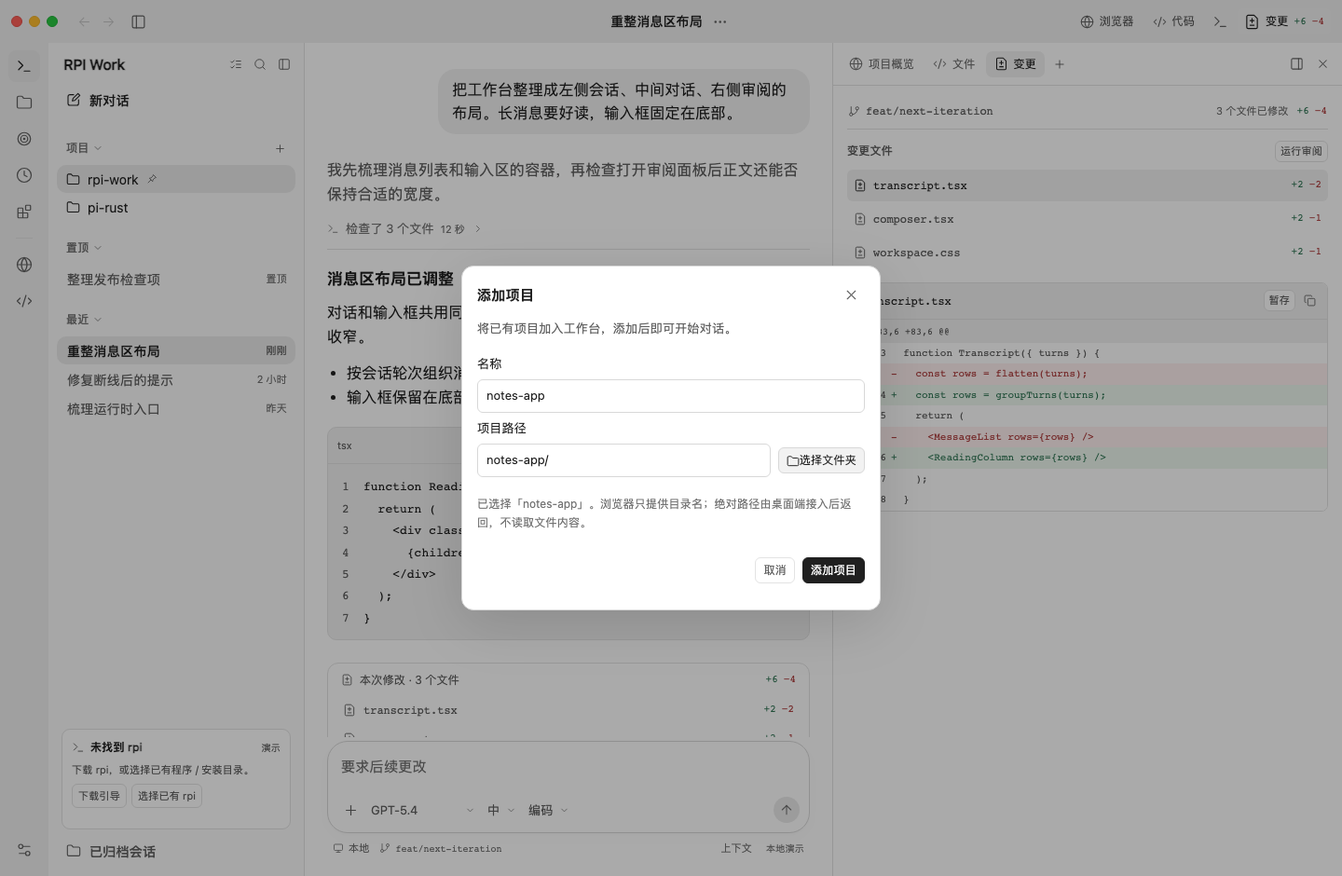
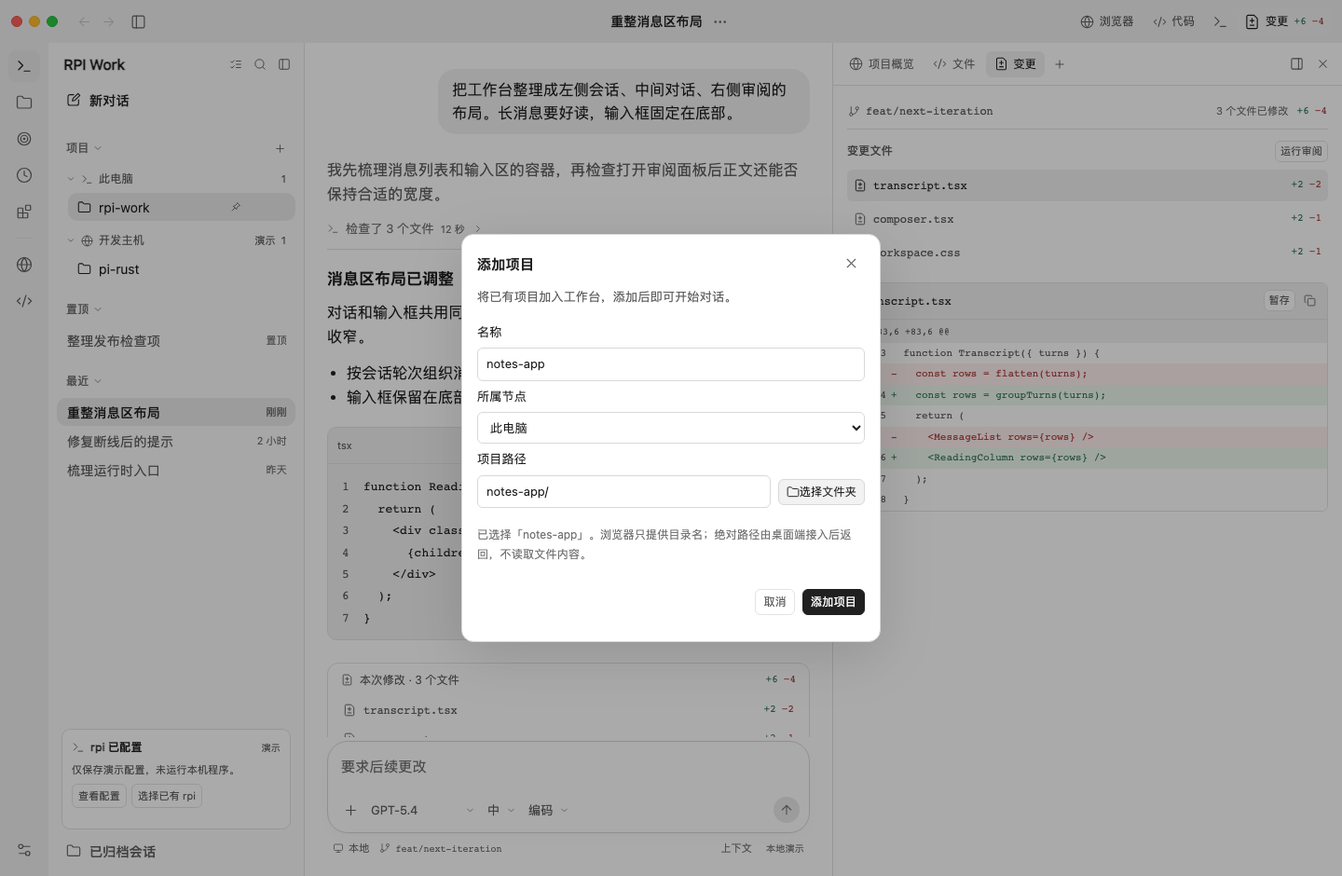
feat(reui): group projects by node with a flat display setting

diff --git a/design/reui-message-layout/workbench.js b/design/reui-message-layout/workbench.js
@@ -1,8 +1,16 @@
 // This prototype owns browser-local state. Commands and integrations use fixtures.
+const projectNodes = [
+  { id: 'local', name: '此电脑', detail: '本地工作区', icon: 'terminal' },
+  { id: 'devbox', name: '开发主机', detail: 'SSH · devbox.local', icon: 'globe', demo: true },
+];
+function projectNode(project) {
+  const id = project?.nodeId || 'local';
+  return projectNodes.find(node => node.id === id) ?? { id, name: '未知节点', icon: 'globe', demo: true };
+}
 const workbench = {
   projects: [], fontSize: '16', permissions: 'workspace', askCommands: false, reviewDelivery: 'inline',
   density: 'comfortable', messageLayout: 'reading', codeNumbers: true, notifyFinish: false, defaultModel: 'GPT-5.4', defaultEffort: '中',
-  followUpMode: 'queue', showContext: true, showBottomControl: true,
+  followUpMode: 'queue', showContext: true, showBottomControl: true, projectGrouping: 'node',
   environments: {}, resources: {}, connections: {}, sourceDrafts: {}, automations: [],
 };
 try {
@@ -10,6 +18,7 @@ try {
   if (saved && typeof saved === 'object') {
     workbench.projects = Array.isArray(saved.projects)
       ? saved.projects.filter(item => item && typeof item.name === 'string' && typeof item.path === 'string' && item.branch === 'main')
+        .map(item => ({ ...item, nodeId: typeof item.nodeId === 'string' && item.nodeId.trim() ? item.nodeId.trim() : 'local' }))
       : [];
     workbench.automations = Array.isArray(saved.automations)
       ? saved.automations.filter(item => item && typeof item.id === 'string' && typeof item.name === 'string'
@@ -24,6 +33,7 @@ try {
     if (['inline', 'detached'].includes(saved.reviewDelivery)) workbench.reviewDelivery = saved.reviewDelivery;
     if (['compact', 'comfortable'].includes(saved.density)) workbench.density = saved.density;
     if (['reading', 'classic'].includes(saved.messageLayout)) workbench.messageLayout = saved.messageLayout;
+    if (['node', 'flat'].includes(saved.projectGrouping)) workbench.projectGrouping = saved.projectGrouping;
     if (typeof saved.codeNumbers === 'boolean') workbench.codeNumbers = saved.codeNumbers;
     workbench.notifyFinish = Boolean(saved.notifyFinish);
     if (typeof saved.showBottomControl === 'boolean') workbench.showBottomControl = saved.showBottomControl;
@@ -401,6 +411,12 @@ function initializeWorkbench() {
     saveWorkbench();
     if (currentPage === 'resources') renderResourceList();
   });
+  $('#project-grouping').addEventListener('change', event => {
+    if (!['node', 'flat'].includes(event.target.value)) return;
+    workbench.projectGrouping = event.target.value;
+    saveWorkbench();
+    renderNavigation();
+  });
   $('#follow-up-default').addEventListener('change', event => {
     workbench.followUpMode = event.target.value;
     if (!session) {
@@ -428,6 +444,7 @@ function initializeWorkbench() {
     $('#show-bottom-control').checked = workbench.showBottomControl;
     document.documentElement.dataset.bottomControl = String(workbench.showBottomControl);
     $('#general-review-delivery').value = workbench.reviewDelivery;
+    $('#project-grouping').value = workbench.projectGrouping;
     $('#follow-up-default').value = workbench.followUpMode;
     $('#show-context-control').checked = workbench.showContext;
     $('.context-button').hidden = !workbench.showContext;
@@ -454,13 +471,10 @@ function initializeWorkbench() {
   }
 
   function renderConnections() {
-    const rows = [
-      { id: 'local', title: '此电脑', detail: '本地工作区', icon: 'terminal' },
-      { id: 'devbox', title: '开发主机', detail: 'SSH · devbox.local', icon: 'globe' },
-    ].map(item => {
+    const rows = projectNodes.map(item => {
       const row = element('div', 'connection-row');
       const words = element('div');
-      words.append(element('strong', '', item.title), element('small', '', item.detail));
+      words.append(element('strong', '', item.name), element('small', '', item.detail));
       const connected = workbench.connections[item.id] ?? item.id === 'local';
       const button = controls(connected ? '模拟断开' : '模拟连接', 'connection-toggle', item.id);
       row.innerHTML = icon(item.icon);
@@ -815,7 +829,7 @@ function initializeWorkbench() {
   }
 
   function clearProjectError() {
-    for (const input of [$('#project-name'), $('#project-path')]) {
+    for (const input of [$('#project-name'), $('#project-path'), $('#project-node')]) {
       input.setCustomValidity('');
       input.removeAttribute('aria-invalid');
     }
@@ -832,10 +846,19 @@ function initializeWorkbench() {
   }
 
   const projectPathHelp = $('#project-path-help').textContent;
+  $('#project-node').replaceChildren(...projectNodes.map(node => new Option(node.name + (node.demo ? '（演示）' : ''), node.id)));
   let pickedProjectName = '';
   let projectPickerTicket = 0;
+  function projectNodeChanged() {
+    ++projectPickerTicket;
+    clearProjectError();
+    const local = $('#project-node').value === 'local';
+    $('#choose-project-folder').disabled = !local;
+    $('#project-path-help').textContent = local ? projectPathHelp : '请填写所选节点上的项目路径，并确认已有填写属于该节点。远程节点为演示，不访问远程文件系统，也不使用本机文件夹选择器。';
+  }
+  $('#project-node').addEventListener('change', projectNodeChanged);
   function selectProjectDirectory(name) {
-    if (!$('#project-dialog').open || !name) return;
+    if (!$('#project-dialog').open || $('#project-node').value !== 'local' || !name) return;
     clearProjectError();
     if (!$('#project-name').value.trim() || $('#project-name').value === pickedProjectName) $('#project-name').value = name;
     pickedProjectName = name;
@@ -843,6 +866,7 @@ function initializeWorkbench() {
     $('#project-path-help').textContent = `已选择「${name}」。浏览器只提供目录名；绝对路径由桌面端接入后返回，不读取文件内容。`;
   }
   $('#choose-project-folder').addEventListener('click', async () => {
+    if ($('#project-node').value !== 'local') return;
     const ticket = ++projectPickerTicket;
     if (typeof window.showDirectoryPicker !== 'function') {
       $('#project-folder-picker').dataset.ticket = String(ticket);
@@ -869,6 +893,7 @@ function initializeWorkbench() {
   });
   $('#project-form').addEventListener('reset', () => {
     pickedProjectName = '';
+    $('#choose-project-folder').disabled = false;
     $('#project-path-help').textContent = projectPathHelp;
   });
   $('#project-dialog').addEventListener('close', () => {
@@ -880,20 +905,22 @@ function initializeWorkbench() {
     event.preventDefault();
     const name = $('#project-name').value.trim();
     const path = $('#project-path').value.trim();
+    const nodeId = $('#project-node').value;
     clearProjectError();
+    if (!projectNodes.some(node => node.id === nodeId)) return showProjectError($('#project-node'), '请选择所属节点');
     if (!name) return showProjectError($('#project-name'), '请输入项目名称');
     if (!path) return showProjectError($('#project-path'), '请输入项目路径');
     if (projects.some(project => project.name === name)) {
       showProjectError($('#project-name'), '项目名称已存在');
       return;
     }
-    const project = { name, path, branch: 'main' };
+    const project = { name, path, branch: 'main', nodeId };
     projects.push(project);
     workbench.projects.push(project);
     saveWorkbench();
     $('#project-dialog').close();
     welcomeProject = name;
-    collapsedSections.delete('projects');
+    expandProjectNode(name);
     saveNavigation();
     showSession(null);
     $(`[data-project-group="${CSS.escape(name)}"]`)?.scrollIntoView({ block: 'nearest' });

diff --git a/design/reui-message-layout/prototype.js b/design/reui-message-layout/prototype.js
@@ -16,8 +16,8 @@ const mobile = matchMedia('(max-width: 700px)');
 const narrow = matchMedia('(max-width: 900px)');
 const compact = matchMedia('(max-width: 1199px)');
 const projects = [
-  { name: 'rpi-work', branch: 'feat/next-iteration' },
-  { name: 'pi-rust', branch: 'main' },
+  { name: 'rpi-work', branch: 'feat/next-iteration', nodeId: 'local' },
+  { name: 'pi-rust', branch: 'main', nodeId: 'devbox' },
   ...workbench.projects,
 ];
 
@@ -103,6 +103,7 @@ const sessions = [
 
 const viewState = new Map();
 const collapsedSections = new Set();
+const collapsedProjectNodes = new Set();
 const pinnedProjects = new Set();
 const navigationKey = 'rpi-work-layout-navigation-v1';
 try {
@@ -115,6 +116,9 @@ try {
       if (['projects', 'recent-threads', 'pinned-threads'].includes(section)) collapsedSections.add(section);
     }
   }
+  for (const id of Array.isArray(saved?.collapsedNodes) ? saved.collapsedNodes : []) {
+    if (projects.some(project => projectNode(project).id === id)) collapsedProjectNodes.add(id);
+  }
   if (saved?.version !== 2) saveNavigation();
 } catch {
   pinnedProjects.add('rpi-work');
@@ -122,7 +126,7 @@ try {
 
 function saveNavigation() {
   try {
-    localStorage.setItem(navigationKey, JSON.stringify({version: 2, pins: [...pinnedProjects], collapsed: [...collapsedSections]}));
+    localStorage.setItem(navigationKey, JSON.stringify({version: 2, pins: [...pinnedProjects], collapsed: [...collapsedSections], collapsedNodes: [...collapsedProjectNodes]}));
   } catch {}
 }
 
@@ -263,10 +267,18 @@ function projectRow(project) {
   const entry = actionButton('', 'project-chat', 'project-entry');
   entry.dataset.project = project.name;
   entry.setAttribute('aria-label', '打开项目 ' + project.name);
-  entry.title = project.path ?? project.name;
+  const node = projectNode(project);
+  group.dataset.nodeId = node.id;
+  entry.title = node.name + (node.demo ? '（演示）' : '') + ' · ' + (project.path ?? project.name);
+  entry.setAttribute('aria-description', '所属节点：' + node.name + (node.demo ? '（演示）' : ''));
   if (project.name === (session?.project ?? welcomeProject)) entry.setAttribute('aria-current', 'true');
   entry.innerHTML = `<span class="project-folder">${icon('folder')}</span>`;
   entry.append(element('span', 'project-name', project.name));
+  if (workbench.projectGrouping === 'flat') {
+    const label = element('span', 'project-node-label', node.name + (node.demo ? ' · 演示' : ''));
+    label.title = entry.title;
+    entry.append(label);
+  }
   if (pinnedProjects.has(project.name)) {
     const pin = element('span', 'project-pin');
     pin.innerHTML = icon('pin');
@@ -297,6 +309,42 @@ function syncSection(id) {
   $(`[data-action="toggle-section"][aria-controls="${id}"]`).setAttribute('aria-expanded', String(open));
 }
 
+function expandProjectNode(name) {
+  collapsedSections.delete('projects');
+  collapsedProjectNodes.delete(projectNode(projects.find(project => project.name === name)).id);
+}
+
+function projectNodeRows(sorted) {
+  const nodes = new Map(projectNodes.map(node => [node.id, node]));
+  for (const project of projects) {
+    const node = projectNode(project);
+    nodes.set(node.id, node);
+  }
+  return [...nodes.values()].flatMap(node => {
+    const items = sorted.filter(project => projectNode(project).id === node.id);
+    if (!items.length) return [];
+    const group = element('section', 'project-node-group');
+    group.dataset.projectNode = node.id;
+    group.setAttribute('aria-label', node.name + '的项目');
+    const list = element('div', 'project-node-projects');
+    list.id = 'project-node-' + encodeURIComponent(node.id);
+    list.hidden = collapsedProjectNodes.has(node.id);
+    const toggle = actionButton('', 'toggle-project-node', 'project-node-toggle');
+    toggle.dataset.nodeId = node.id;
+    toggle.setAttribute('aria-controls', list.id);
+    toggle.setAttribute('aria-expanded', String(!list.hidden));
+    toggle.setAttribute('aria-label', node.name + '的项目');
+    toggle.title = node.detail ?? node.id;
+    toggle.innerHTML = icon('chevron-down') + icon(node.icon);
+    toggle.append(element('span', 'project-node-name', node.name));
+    if (node.demo) toggle.append(element('span', 'project-node-demo', '演示'));
+    toggle.append(element('span', 'project-node-count', String(items.length)));
+    list.append(...items.map(projectRow));
+    group.append(toggle, list);
+    return [group];
+  });
+}
+
 function renderNavigation() {
   const menu = $('#project-menu');
   if (menu.matches(':popover-open')) menu.hidePopover();
@@ -307,9 +355,10 @@ function renderNavigation() {
   });
   const pinned = visible.filter(thread => thread.pinned).map(threadButton);
   const recent = visible.filter(thread => !thread.pinned).map(threadButton);
-  const projectRows = [...projects]
-    .sort((left, right) => Number(pinnedProjects.has(right.name)) - Number(pinnedProjects.has(left.name)))
-    .map(projectRow);
+  const sorted = [...projects]
+    .sort((left, right) => Number(pinnedProjects.has(right.name)) - Number(pinnedProjects.has(left.name)));
+  const projectRows = workbench.projectGrouping === 'flat' ? sorted.map(projectRow) : projectNodeRows(sorted);
+  $('#projects').dataset.layout = workbench.projectGrouping;
   $('#pinned-section').hidden = !pinned.length;
   if (!recent.length) {
     recent.push(element('p', 'filter-empty', filter !== 'all' && !visible.length
@@ -1237,10 +1286,20 @@ document.addEventListener('click', event => {
       saveNavigation();
       break;
     }
+    case 'toggle-project-node': {
+      const id = button.dataset.nodeId;
+      const collapsing = !collapsedProjectNodes.has(id);
+      if (collapsing) collapsedProjectNodes.add(id);
+      else collapsedProjectNodes.delete(id);
+      document.getElementById(button.getAttribute('aria-controls')).hidden = collapsing;
+      button.setAttribute('aria-expanded', String(!collapsing));
+      saveNavigation();
+      break;
+    }
     case 'browse-projects': {
       setPanel('navigation', true, false);
       const name = session?.project ?? welcomeProject;
-      collapsedSections.delete('projects');
+      expandProjectNode(name);
       $('#chat-filter').hidden = true;
       $('#filter-chats').setAttribute('aria-expanded', 'false');
       renderNavigation();

diff --git a/design/reui-message-layout/layout.css b/design/reui-message-layout/layout.css
@@ -261,7 +261,7 @@ dialog::backdrop, .scrim { background: #0005; }
 .dialog-form { display: grid; gap: 7px; margin-bottom: 12px; font-size: .8125rem; }
 .dialog-form > .action-button { justify-self: end; }
 .dialog-input-row { display: flex; gap: 6px; }
-.dialog-form input, .dialog-form textarea { width: 100%; min-width: 0; padding: 7px 9px; border: 1px solid var(--strong-line); border-radius: 6px; background: var(--surface); }
+.dialog-form input, .dialog-form textarea, #project-node { width: 100%; min-width: 0; padding: 7px 9px; border: 1px solid var(--strong-line); border-radius: 6px; background: var(--surface); }
 .dialog-form textarea { resize: vertical; }
 #comment-location { overflow-wrap: anywhere; }
 .archive-row { display: flex; gap: 9px; justify-content: space-between; align-items: center; padding-block: 7px; font-size: .8125rem; }
@@ -805,7 +805,17 @@ dialog::backdrop, .scrim { background: #0005; }
 .sidebar-project { position: relative; }
 .project-entry { display: flex; align-items: center; gap: 8px; width: 100%; min-height: 30px; padding: 0 58px 0 10px; border-radius: 10px; color: var(--ink); font-size: 14px; text-align: left; }
 .project-entry:hover, .project-entry[aria-current="true"] { background: var(--hover); }
-.project-name { min-width: 0; white-space: nowrap; overflow: hidden; text-overflow: ellipsis; }
+.project-name { flex: 1; min-width: 0; white-space: nowrap; overflow: hidden; text-overflow: ellipsis; }
+.project-node-label { max-width: 90px; overflow: hidden; text-overflow: ellipsis; white-space: nowrap; color: var(--muted); font-size: 11px; }
+.project-node-group + .project-node-group { margin-top: 6px; }
+.project-node-toggle { display: flex; align-items: center; gap: 6px; width: 100%; min-height: 30px; padding: 3px 10px; border-radius: 7px; color: var(--muted); font-size: 12px; text-align: left; }
+.project-node-toggle:hover { background: var(--hover); }
+.project-node-toggle .icon { flex: none; width: 13px; height: 13px; }
+.project-node-toggle .icon:first-child { width: 10px; height: 10px; }
+.project-node-toggle[aria-expanded="false"] .icon:first-child { transform: rotate(-90deg); }
+.project-node-name { flex: 1; min-width: 0; white-space: nowrap; overflow: hidden; text-overflow: ellipsis; }
+.project-node-demo, .project-node-count { font-size: 11px; }
+.project-node-projects { margin-left: 12px; }
 .project-pin { display: inline-flex; color: var(--muted); }
 .project-pin .icon { width: 12px; height: 12px; }
 .project-tools { position: absolute; top: 3px; right: 3px; display: flex; gap: 1px; opacity: 0; }

diff --git a/design/reui-message-layout/index.html b/design/reui-message-layout/index.html
@@ -280,6 +280,7 @@
           </div>
           <h4>工作区</h4>
           <div class="preference-group">
+            <label class="settings-row"><span><strong>项目列表显示</strong><small>按所属节点分组，或平铺所有项目。只影响项目列表，不改变最近和置顶会话。</small></span><span class="select-control"><select id="project-grouping" aria-label="项目列表显示"><option value="node">按节点分组</option><option value="flat">平铺</option></select><i data-icon="chevron-down"></i></span></label>
             <label class="settings-row"><span><strong>底部面板</strong><small>在窗口标题栏中显示终端按钮。</small></span><input id="show-bottom-control" type="checkbox" role="switch" aria-label="底部面板"></label>
             <label class="settings-row"><span><strong>审查结果呈现方式</strong><small>在当前聊天中审查代码，或启动单独的审查聊天。</small></span><span class="select-control"><select id="general-review-delivery" aria-label="审查结果呈现方式"><option value="inline">当前聊天</option><option value="detached">独立聊天</option></select><i data-icon="chevron-down"></i></span></label>
           </div>
@@ -411,6 +412,7 @@
     <p id="project-dialog-description" class="project-dialog-description">将已有项目加入工作台，添加后即可开始对话。</p>
     <form id="project-form" class="dialog-form">
       <label for="project-name">名称</label><input id="project-name" required maxlength="50" placeholder="my-project" aria-describedby="project-error" autofocus>
+      <label for="project-node">所属节点</label><select id="project-node" required aria-describedby="project-path-help project-error"></select>
       <label for="project-path">项目路径</label><div class="project-path-row"><input id="project-path" required maxlength="300" placeholder="~/Projects/my-project" aria-describedby="project-path-help project-error"><button type="button" class="action-button" id="choose-project-folder"><i data-icon="folder"></i>选择文件夹</button></div>
       <input id="project-folder-picker" type="file" aria-label="导入项目目录" webkitdirectory multiple hidden>
       <p id="project-path-help" class="settings-note">可选择文件夹或手动填写路径。浏览器只记录目录名称，不提供绝对路径、不读取文件内容。</p>

diff --git a/design/reui-message-layout/README.md b/design/reui-message-layout/README.md
@@ -17,8 +17,9 @@
 ## 可以直接试的流程
 
 - **rpi 启动引导**　启动时先显示演示检测状态：[已检测到可用 rpi](screenshots/rpi-startup-ready.png) 则直接进入工作台，不弹窗；未检测到才自动弹出配置选择，让用户选择下载安装或手动指定已有 rpi。弹窗只保留一个「rpi 路径」框，下载和手动定位共用。没有 rpi 时点下载便直接显示[百分比进度](screenshots/rpi-setup-downloading.png)，随后自动演示校验，成功后回填同一路径框并保存，无须先选择安装目录或再次点验证；失败不回填、不保存成功配置。已有 rpi 可选择 `rpi` / `rpi.exe` 程序、已有目录，或手动填写位置。示例回填路径 `~/.local/bin/rpi` 不代表本机已安装；演示配置刷新后保留且不再弹窗。关闭引导会取消进行中的演示任务，保留草稿、选区及原焦点，本次启动不重复弹出；之后仍可通过侧栏重新打开。所有检测、下载和执行都没有真实接入，只有文件/目录选择器是真实浏览器交互；官方发布页需要用户主动打开。[缺失时自动引导](screenshots/rpi-startup-guide.png) · [手动定位](screenshots/rpi-setup-manual.png) · [演示配置完成](screenshots/rpi-setup-ready.png)
-- **添加项目**　独立「项目」分组的标题旁放置「＋」图标，悬停提示「添加项目」。支持「选择文件夹」，名称自动填入，也可自行编辑名称或手动填写路径。优先使用原生目录选择器，不支持时使用浏览器文件夹输入；取消、拒绝或过期结果不覆盖原填写。浏览器只记录目录名，不返回绝对路径，也不读取文件内容；绝对路径与真实目录接入留给桌面端。添加后进入新项目对话，只展开项目分组，不改变最近会话的折叠或筛选状态。空白名称/路径和重名会提示；取消或 Esc 不添加项目、不清空原对话草稿。项目元数据仅保存在浏览器，不创建目录。[入口截图](screenshots/add-project-entry.png) · [添加弹窗](screenshots/add-project-dialog.png) · [添加完成](screenshots/project-added.png)
-- **项目与会话**　「项目」「置顶」「最近」分别折叠、独立保存偏好。项目列表只显示项目；点击项目进入该项目的新对话，项目菜单支持将项目排在项目列表前面，不会移动其会话。「置顶」只显示单独置顶的会话；「最近」直接平铺其他会话，不再按项目嵌套，悬停会话可查看所属项目和完整标题。会话菜单支持置顶、重命名、分叉、交接或归档。顶栏箭头沿本次访问过的会话前进、后退。搜索和执行中/待审批筛选仅影响会话，项目仍可独立访问。旧版最近分组折叠偏好会迁移到新版最近会话，不误折叠项目列表。归档会话可从设置恢复。
+- **添加项目**　独立「项目」分组的标题旁放置「＋」图标，悬停提示「添加项目」。默认添加到「此电脑」，也可选择所属节点。本机支持「选择文件夹」，名称自动填入；远程节点须手动填写其路径，禁用本机选择器，原型不访问远程文件系统。也可自行编辑名称或手动填写路径。本机目录选择优先使用原生目录选择器，不支持时使用浏览器文件夹输入；取消、拒绝或过期结果不覆盖原填写。浏览器只记录目录名，不返回绝对路径，也不读取文件内容；绝对路径与真实目录接入留给桌面端。添加后进入新项目对话，只展开项目分组和目标节点，不改变最近会话的折叠或筛选状态。空白名称/路径和重名会提示；取消或 Esc 不添加项目、不清空原对话草稿。项目元数据仅保存在浏览器，不创建目录。[入口截图](screenshots/add-project-entry.png) · [添加弹窗](screenshots/add-project-dialog.png) · [添加完成](screenshots/project-added.png)
+- **项目显示与节点**　在「设置 → 常规 → 工作区 → 项目列表显示」选择[按节点分组](screenshots/projects-by-node.png)或[平铺](screenshots/projects-flat.png)，默认按节点分组；[设置截图](screenshots/project-node-settings.png)。节点显示项目数量、支持独立折叠，切换模式及刷新后保留偏好。平铺时每个项目旁标注节点；切换只重建项目列表，不改变对话、草稿、选区、阅读位置或右侧预览。旧项目缺少节点信息时归到此电脑，未知节点身份保留为未知，不冒认本机。示例「开发主机」沿用连接页的演示节点；[远程添加示例](screenshots/add-remote-project.png)只保存节点和路径元数据，不代表真实连接。
+- **项目与会话**　「项目」「置顶」「最近」分别折叠、独立保存偏好。项目列表只显示项目；点击项目进入该项目的新对话，项目菜单支持置顶项目：分组时仅在所属节点内排序，平铺时在总列表排序，不会移动其会话。「置顶」只显示单独置顶的会话；「最近」直接平铺其他会话，不再按项目嵌套，悬停会话可查看所属项目和完整标题。会话菜单支持置顶、重命名、分叉、交接或归档。顶栏箭头沿本次访问过的会话前进、后退。搜索和执行中/待审批筛选仅影响会话，项目仍可独立访问。旧版最近分组折叠偏好会迁移到新版最近会话，不误折叠项目列表。归档会话可从设置恢复。
 - **输入与目标**　在输入框键入 `/` 搜索命令，使用 `/plan` 切换计划、`/status` 查看上下文、`/new` 新建聊天，有改动时可选 `/review`。输入 `@` 可选择示例文件或已打开目录中的文件。按 ↑/↓ 选择，Enter 或 Tab 确认。通过 `/goal` 或左侧目标按钮为当前聊天设定目标，输入框上方可以编辑、暂停、继续或移除。建立目标会启动或排队一次演示轮次，暂停会停止该目标正在运行的轮次并移除它的排队项。
 - **运行与审批**　在「设置 → 常规 → 下一轮演示」选择正常、命令审批或工具失败。发送消息后可看工具记录、引导本轮、排队、停止或重试。审批可允许一次、允许本会话或拒绝。计划生成后可点「开始实施」。新聊天可选择本地或 Worktree 及起始分支。
 - **右侧浏览器**　用标签栏的加号新建浏览器标签，每个标签独立维护历史。地址栏可以打开实际运行的本地开发服务器及允许嵌入的 HTTP(S) 网页。`rpi://project/` 为离线项目示例。示例页的「批注」让你选择页面元素并把反馈附到下一条消息。点击预览中的文件会切换到源码。拖动分隔线调整宽度，双击恢复默认，也可切换完整视图。新对话会自动收起空的「变更」面板，回到有变更的会话时恢复；手动开关或选择标签后尊重用户操作。已打开的浏览器、源码面板不因新建对话而自动关闭。
@@ -59,7 +60,7 @@ python3 -m http.server 4193 --bind 127.0.0.1 --directory design/reui-message-lay
 
 用仓库 `tools/` 中的 Playwright 和已安装的 Chromium 运行浏览器回归。设置环境变量 `RPI_WORKBENCH_SHOTS` 可将截图输出到指定目录。
 
-当前回归包含 21 组流程。安装引导检查覆盖已配置时不弹窗、未配置时自动弹出选择、关闭后不重复弹出、唯一路径框、下载百分比、下载后自动校验与成功回填、下载/验证失败不回填及重试、下载/自动校验期间关闭后取消演示任务、手动选择程序/安装目录及配置刷新保留；项目目录检查覆盖原生 API 桩与真实浏览器文件夹输入、空目录句柄、取消/拒绝、过期结果和自定义名称保留，禁止应用读取测试文件内容，不执行程序或发起下载请求。这不等于原生桌面安装或系统文件选择器已经实机验收。侧栏检查覆盖项目/置顶/最近的数据分离、最近会话平铺且不重复、项目置顶只改变项目排序、独立折叠持久化、旧版偏好迁移、项目按钮及菜单键盘导航。添加项目检查覆盖项目标题旁的图标入口、可访问名称和悬停提示、打开时输入焦点、取消后草稿/选区/阅读位置与入口焦点保留、空白和重名提示、重新打开时清除旧错误、Esc 关闭，以及从折叠/筛选状态添加后的项目可见性、会话折叠/筛选保留、新对话归属与刷新保存。焦点检查在16种消息代码和8种源码只读/编辑桌面组合中读取PNG四边焦点像素，并验证消息代码Tab进入/离开/返回与草稿选区保留。原生ArrowRight探针在新窗口也曾超时，不列入稳定默认门槛；需明确设置 `RPI_WORKBENCH_NATIVE_SCROLL_PROBE=1` 才运行可选诊断，不代表原生键滚已完整覆盖。复制检查在隔离的剪贴板API桩内验证正文/代码/源码/diff精确载荷、正文不夹带控件、拒绝/缺失/同步抛错与重试图标恢复、延迟完成时的草稿/焦点/阅读位置，以及切换文件后的结果归属；不写真实系统剪贴板，也不等于原生权限或系统粘贴实机验证。阅读对比度检查覆盖消息/代码/diff的92个明暗计算颜色样本，包括代码计数器和增删行号，要求在实际均匀背景上至少4.5:1；这只是列明范围的对比度检查，不是全应用无障碍认证。Diff 阅读检查覆盖长行横向滚动时固定行号和反馈入口、长文件名单行省略、反馈/发现按可见宽度换行、鼠标与键盘的新/旧行位置，以及明暗、桌面宽度和320px窄面板。正文排版检查覆盖已有/新回答在16/18px、舒适/紧凑、明暗和阅读/经典布局下的一致行距，字号/密度变化后的可见块锚点与底部跟随，代码/日志独立字号、草稿/DOM/展开状态保留，以及长正文换行和代码局部横向滚动。预览像素检查从原始整窗 PNG 统计标题和主体的文字像素，覆盖浅/深/系统主题、弹窗往返与普通/可控时钟；同时确认主题切换不重载 iframe、不丢未保存表单和选区、不放宽沙箱。先前的「预览主体空白」目检记录已被原始截图与裁切证据推翻，详见视觉基准。消息层次检查覆盖最终正文与阅读列对齐、完成步骤默认折叠、原生摘要键盘开关、明暗/阅读/经典布局、完成和后台完成时保留已展开工具，以及「开始实施」和失败重试入口始终可见。会话阅读恢复检查覆盖各会话的滚动锚点、工具展开与收起、前进后退、资源页往返、后台流式更新、原本在底部时继续跟随，以及历史加载场景和字号/布局变化后的返回。阅读布局检查覆盖两种布局的实际几何与样式、刷新持久化、无效偏好回退、草稿和工具展开状态、滚动锚点、1440/1280/1024px 桌面宽度，以及新对话的空变更收起、返回恢复、鼠标与键盘手动覆盖和浏览器/源码保留。历史展示检查覆盖加载和失败时禁发、重试恢复、草稿与附件刷新保留、快速切换时的过期结果取消，以及空态发送首条消息。输入菜单检查覆盖 Home/End 与 Shift 选区变化、过期引用范围保护、上下键选择、正文前缀保留，以及中文组合事件与菜单/发送的隔离；事件回归不等于所有原生输入法都已实机验证。截图输出包含相同视口与字号下的两种布局、深色布局、三种新对话面板状态及历史加载/失败/恢复。这些是原型交互与布局验证，不代表已经实现桌面像素级 1:1 对齐。
+当前回归包含 22 组流程。节点显示检查覆盖默认按节点分组、平铺及刷新保留、节点独立折叠与键盘、节点内置顶、添加到目标节点时只展开该节点、远程路径元数据和本机选择器禁用、切换节点后过期选择结果无效、旧/未知节点与无效偏好回退，以及切换时消息 DOM、草稿、选区、阅读位置、预览和会话列表保留。可单独运行 `node design/reui-message-layout/verify-project-nodes.cjs`。安装引导检查覆盖已配置时不弹窗、未配置时自动弹出选择、关闭后不重复弹出、唯一路径框、下载百分比、下载后自动校验与成功回填、下载/验证失败不回填及重试、下载/自动校验期间关闭后取消演示任务、手动选择程序/安装目录及配置刷新保留；项目目录检查覆盖原生 API 桩与真实浏览器文件夹输入、空目录句柄、取消/拒绝、过期结果和自定义名称保留，禁止应用读取测试文件内容，不执行程序或发起下载请求。这不等于原生桌面安装或系统文件选择器已经实机验收。侧栏检查覆盖项目/置顶/最近的数据分离、最近会话平铺且不重复、项目置顶只改变项目排序、独立折叠持久化、旧版偏好迁移、项目按钮及菜单键盘导航。添加项目检查覆盖项目标题旁的图标入口、可访问名称和悬停提示、打开时输入焦点、取消后草稿/选区/阅读位置与入口焦点保留、空白和重名提示、重新打开时清除旧错误、Esc 关闭，以及从折叠/筛选状态添加后的项目可见性、会话折叠/筛选保留、新对话归属与刷新保存。焦点检查在16种消息代码和8种源码只读/编辑桌面组合中读取PNG四边焦点像素，并验证消息代码Tab进入/离开/返回与草稿选区保留。原生ArrowRight探针在新窗口也曾超时，不列入稳定默认门槛；需明确设置 `RPI_WORKBENCH_NATIVE_SCROLL_PROBE=1` 才运行可选诊断，不代表原生键滚已完整覆盖。复制检查在隔离的剪贴板API桩内验证正文/代码/源码/diff精确载荷、正文不夹带控件、拒绝/缺失/同步抛错与重试图标恢复、延迟完成时的草稿/焦点/阅读位置，以及切换文件后的结果归属；不写真实系统剪贴板，也不等于原生权限或系统粘贴实机验证。阅读对比度检查覆盖消息/代码/diff的92个明暗计算颜色样本，包括代码计数器和增删行号，要求在实际均匀背景上至少4.5:1；这只是列明范围的对比度检查，不是全应用无障碍认证。Diff 阅读检查覆盖长行横向滚动时固定行号和反馈入口、长文件名单行省略、反馈/发现按可见宽度换行、鼠标与键盘的新/旧行位置，以及明暗、桌面宽度和320px窄面板。正文排版检查覆盖已有/新回答在16/18px、舒适/紧凑、明暗和阅读/经典布局下的一致行距，字号/密度变化后的可见块锚点与底部跟随，代码/日志独立字号、草稿/DOM/展开状态保留，以及长正文换行和代码局部横向滚动。预览像素检查从原始整窗 PNG 统计标题和主体的文字像素，覆盖浅/深/系统主题、弹窗往返与普通/可控时钟；同时确认主题切换不重载 iframe、不丢未保存表单和选区、不放宽沙箱。先前的「预览主体空白」目检记录已被原始截图与裁切证据推翻，详见视觉基准。消息层次检查覆盖最终正文与阅读列对齐、完成步骤默认折叠、原生摘要键盘开关、明暗/阅读/经典布局、完成和后台完成时保留已展开工具，以及「开始实施」和失败重试入口始终可见。会话阅读恢复检查覆盖各会话的滚动锚点、工具展开与收起、前进后退、资源页往返、后台流式更新、原本在底部时继续跟随，以及历史加载场景和字号/布局变化后的返回。阅读布局检查覆盖两种布局的实际几何与样式、刷新持久化、无效偏好回退、草稿和工具展开状态、滚动锚点、1440/1280/1024px 桌面宽度，以及新对话的空变更收起、返回恢复、鼠标与键盘手动覆盖和浏览器/源码保留。历史展示检查覆盖加载和失败时禁发、重试恢复、草稿与附件刷新保留、快速切换时的过期结果取消，以及空态发送首条消息。输入菜单检查覆盖 Home/End 与 Shift 选区变化、过期引用范围保护、上下键选择、正文前缀保留，以及中文组合事件与菜单/发送的隔离；事件回归不等于所有原生输入法都已实机验证。截图输出包含相同视口与字号下的两种布局、深色布局、三种新对话面板状态及历史加载/失败/恢复。这些是原型交互与布局验证，不代表已经实现桌面像素级 1:1 对齐。
 
 ```sh
 node design/reui-message-layout/verify.cjs

diff --git a/design/reui-message-layout/DESIGN-REVIEW.md b/design/reui-message-layout/DESIGN-REVIEW.md
@@ -40,11 +40,22 @@
 - 检测、下载、校验和及版本验证都没有真实接入；只有选择器是真实浏览器交互，成功仅保存[演示配置并回填可见路径](screenshots/rpi-setup-ready.png)，示例 `~/.local/bin/rpi` 不是本机真实安装结果。关闭引导取消未完成的演示任务，保留草稿及选区。官方发布页须用户主动打开，本原型不运行安装脚本。
 - 新增专门回归覆盖以上成功、失败、取消、过期及刷新场景；新增断言验证检测成功不弹窗、缺失自动弹出、关闭不反复弹出、自动引导结束后草稿选区及焦点恢复，以及唯一路径框、下载百分比、自动校验后回填、失败不回填与校验期间取消，整体21组通过。其他工作台回归显式使用启动成功夹具，组合视图查询参数时不会丢失启动状态。未读取文件内容、未联网下载、未执行程序。自动化目录句柄使用桩，文件夹输入使用临时目录，不等于原生桌面安装与系统选择器的完整实机验收。
 
+## 评审反馈补充：按节点分组或平铺项目
+
+用户指出项目可能位于其他节点，因此在「设置 → 常规 → 工作区 → 项目列表显示」加入[按节点分组](screenshots/projects-by-node.png) / [平铺](screenshots/projects-flat.png)，默认分组；[设置截图](screenshots/project-node-settings.png)。
+
+- 沿用连接页已有的「此电脑」「开发主机」节点元数据，示例 `pi-rust` 归到开发主机，并在节点和扁平标签中明确标为演示；不发起网络连接或执行远程命令。
+- 节点标题显示数量、可用键盘独立折叠；偏好和折叠状态刷新保留。节点顺序独立于项目置顶，置顶只在所属节点内排序；平铺时保留全局置顶排序，并在行内标明节点。
+- 设置切换只重新呈现侧栏项目，不改项目归属、置顶/最近会话、当前对话、消息 DOM、草稿选区、阅读位置或右侧预览。
+- 添加项目新增所属节点，[远程节点](screenshots/add-remote-project.png)只可填写路径，不调用本机目录选择器；切换节点使未返回的本机选择结果失效。添加后只展开项目总分组和目标节点，保留其他节点及会话的折叠/筛选。
+- 旧的自建项目缺少 `nodeId` 时归到此电脑；未知身份保留在未知节点下，不静默归本机。原型仍以全局唯一项目名关联会话，跨节点同名项目的复合身份、节点发现和真实执行留待 renderer 迁移，必须沿用 production work-client、RunProjection 和 work-viewmodel，不另造协议。
+- 新增节点显示回归，完整22组通过；在1440×940、DPR1截图并检查明暗。节点文字相对侧栏背景计算对比度为浅色6.02:1、深色8.40:1；这只覆盖列明的节点文字，不是全应用无障碍认证。
+
 ## 当前结论
 
 - 首轮整窗复核没有发现足以支撑再次改变布局的新增、可复现证据；后续仅按明确反馈补齐侧栏、目录选择及 rpi 设置引导，不随意改正文/审阅列宽、间距或扩建演示后端能力。
 - 当前 HTML 已覆盖执行/完成/失败、历史恢复、阅读状态、代码/diff 局部溢出、复制反馈及焦点可见性；这不是生产协议或完整产品实现。
-- 最新完整21组回归、语法、结构和差异检查通过；焦点 PNG 检查为16种消息代码与8种源码只读/编辑组合，对比度审计为列明范围的92个颜色样本。
+- 最新完整22组回归、语法、结构和差异检查通过；焦点 PNG 检查为16种消息代码与8种源码只读/编辑组合，对比度审计为列明范围的92个颜色样本。
 - 一次整套验证发生过超时，后续独立检查和完整重跑通过；不把成功重跑说成所有环境都稳定，也未为此添加预览修复。
 - 原生 ArrowRight 探针在新窗口也会偶发超时，默认不作为稳定门槛；可选诊断及其他验证边界均见[视觉基准](VISUAL-BASELINE.md)。不宣称原生键滚、IME实机或全应用无障碍已经完整验收。
 
